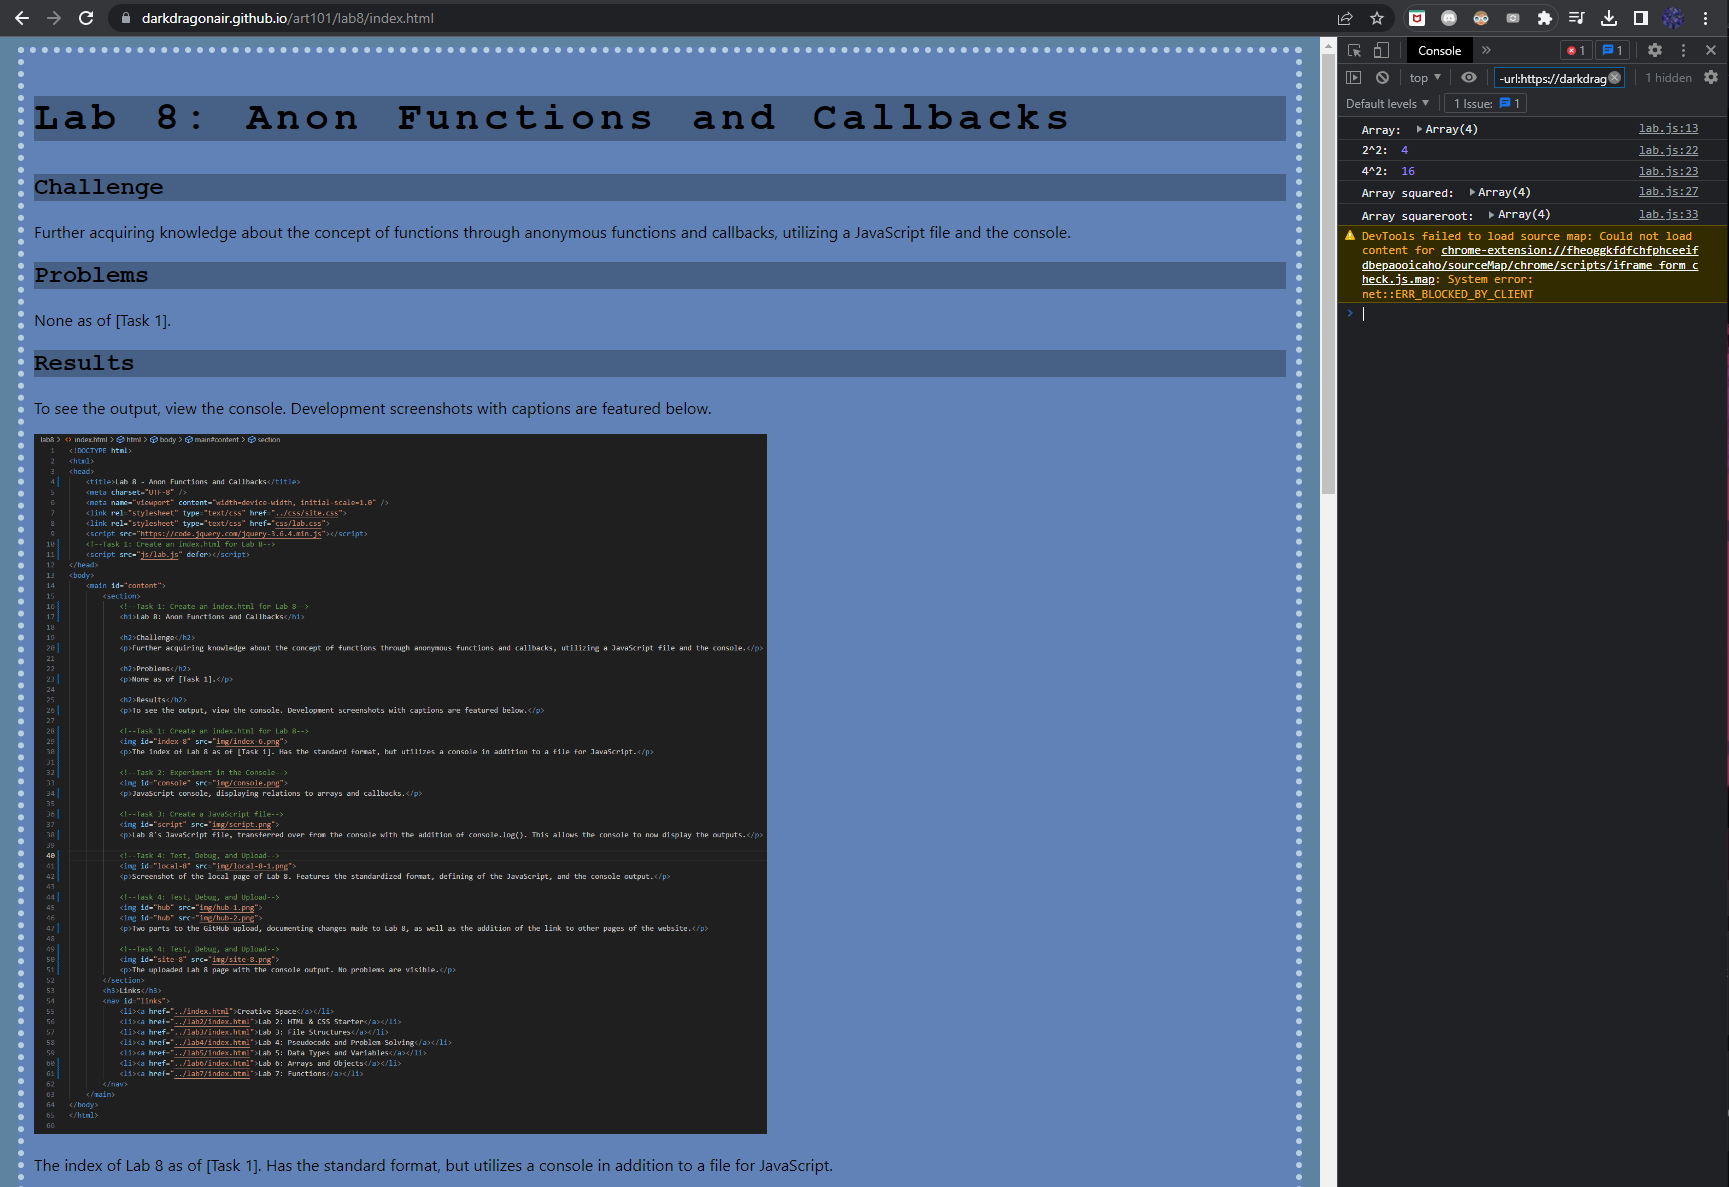
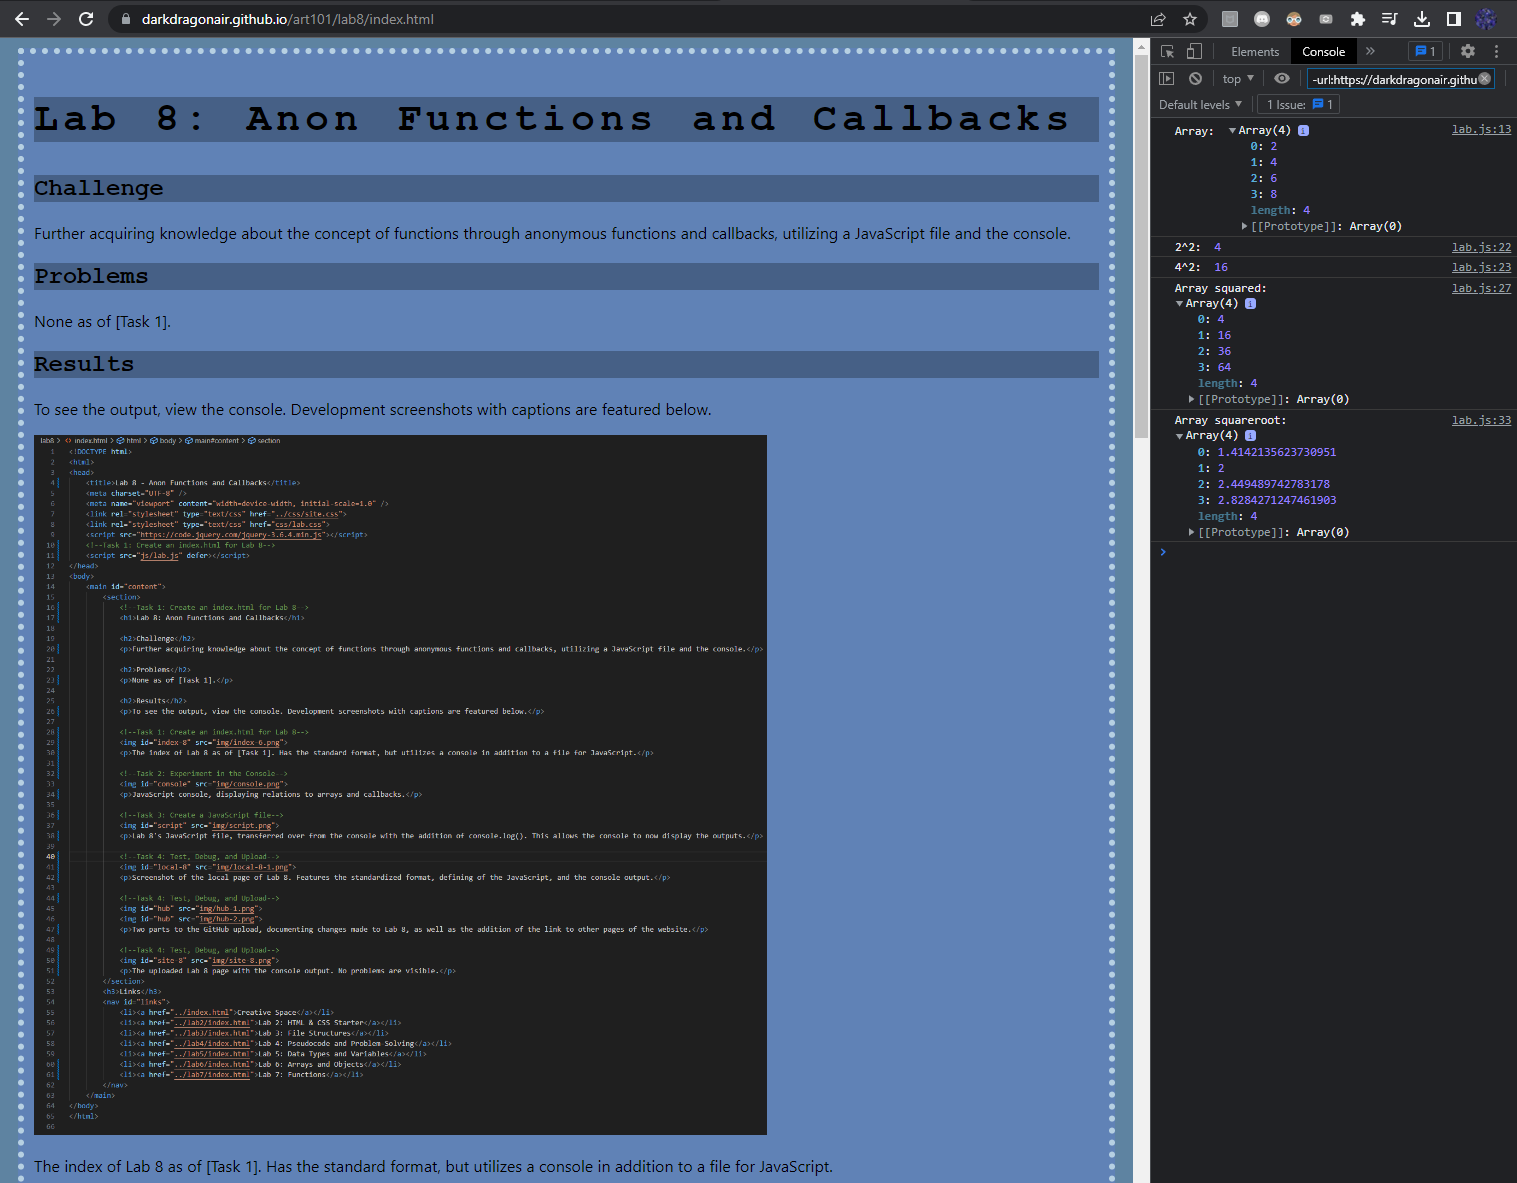
Lab 8, 3

Changed region(s): [[0.0, 0.0, 1.0, 1.0], [0.8675, 0.426, 0.8985, 0.4565]]

diff --git a/lab8/index.html b/lab8/index.html
@@ -20,7 +20,7 @@
 			<p>Further acquiring knowledge about the concept of functions through anonymous functions and callbacks, utilizing a JavaScript file and the console.</p>
 
 			<h2>Problems</h2>
-			<p>None as of [Task 1].</p>
+			<p>No errors were encountered during the assignment.</p>
 
 			<h2>Results</h2>
 			<p>To see the output, view the console. Development screenshots with captions are featured below.</p>
